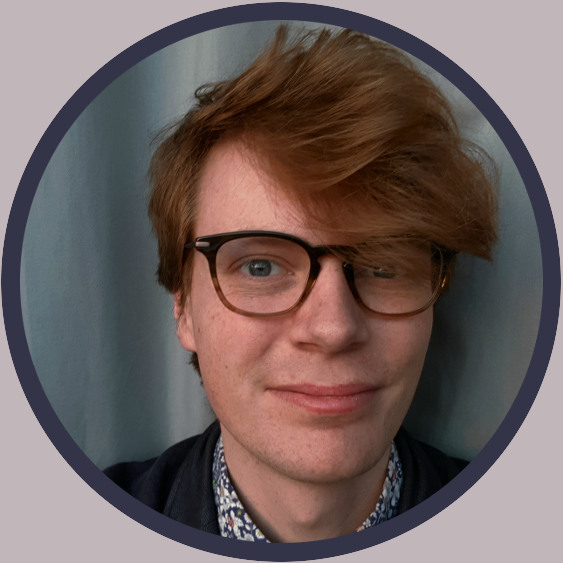
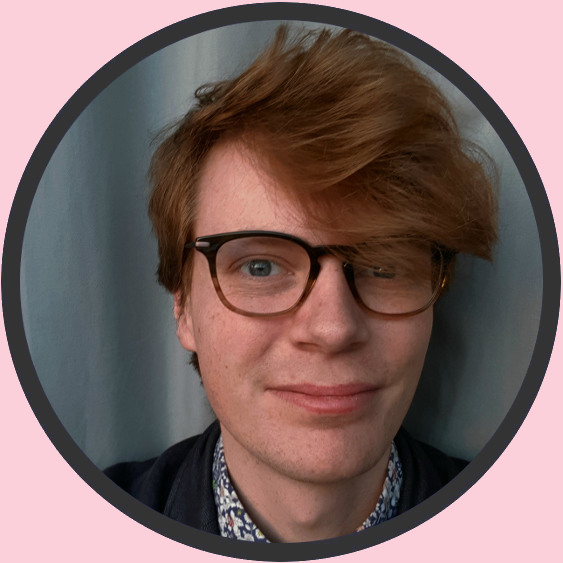
updated color and pictures

Changed region(s): [[0.0, 0.0, 1.0, 1.0]]

diff --git a/src/index.html b/src/index.html
@@ -104,14 +104,14 @@
                     </div>
                 </div>
                 <div class='col-4 column'>
-                    <img src='/static/empty.png' />
+                    <img src='/static/kmett.jpg' />
                     <h3 class='name'><span class='first'>E</span>dward <span class='second'>K</span>mett</h3>
                     <div class='bio'>
                       Research Engineer at <a href='https://intelligence.org/'>Machine Intelligence Research Institute</a>. 
                     </div>
                 </div>
                 <div class='col-4 column'>
-                    <img src='/static/empty.png' />
+                    <img src='/static/alexey.jpg' />
                     <h3 class='name'><span class='first'>A</span>lexey <span class='second'>K</span>uleshevich</h3>
                     <div class='bio'>
                       Software Engineer at <a href='https://www.fpcomplete.com'>FP Complete</a>
@@ -121,7 +121,7 @@
 
             <div class='row'>
                 <div class='col-4 column'>
-                    <img src='/static/empty.png' />
+                    <img src='/static/justin.jpg' />
                     <h3 class='name'><span class='first'>J</span>ustin <span class='second'>W</span>oo</h3>
                     <div class='bio'>
                       PureScript and memes
@@ -170,7 +170,7 @@
 
             <div class='row'>
                 <div class='col-4 column'>
-                    <img src='/static/empty.png' />
+                    <img src='/static/arian.jpg' />
                     <h3 class='name'><span class='first'>A</span>rian van <span class='second'>P</span>utten</h3>
                     <div class='bio'>
                       Maintainer of <a href='https://haskell-servant.github.io/'>Servant</a>

diff --git a/src/style.less b/src/style.less
@@ -275,7 +275,7 @@ h4.external-btn,h2.external-btn {
 
 .speakers {
   padding-bottom: 20px;
-  background-color: @color-1;
+  background-color: rgb(252,208,219);
 
   h3 {
     text-align: center;
